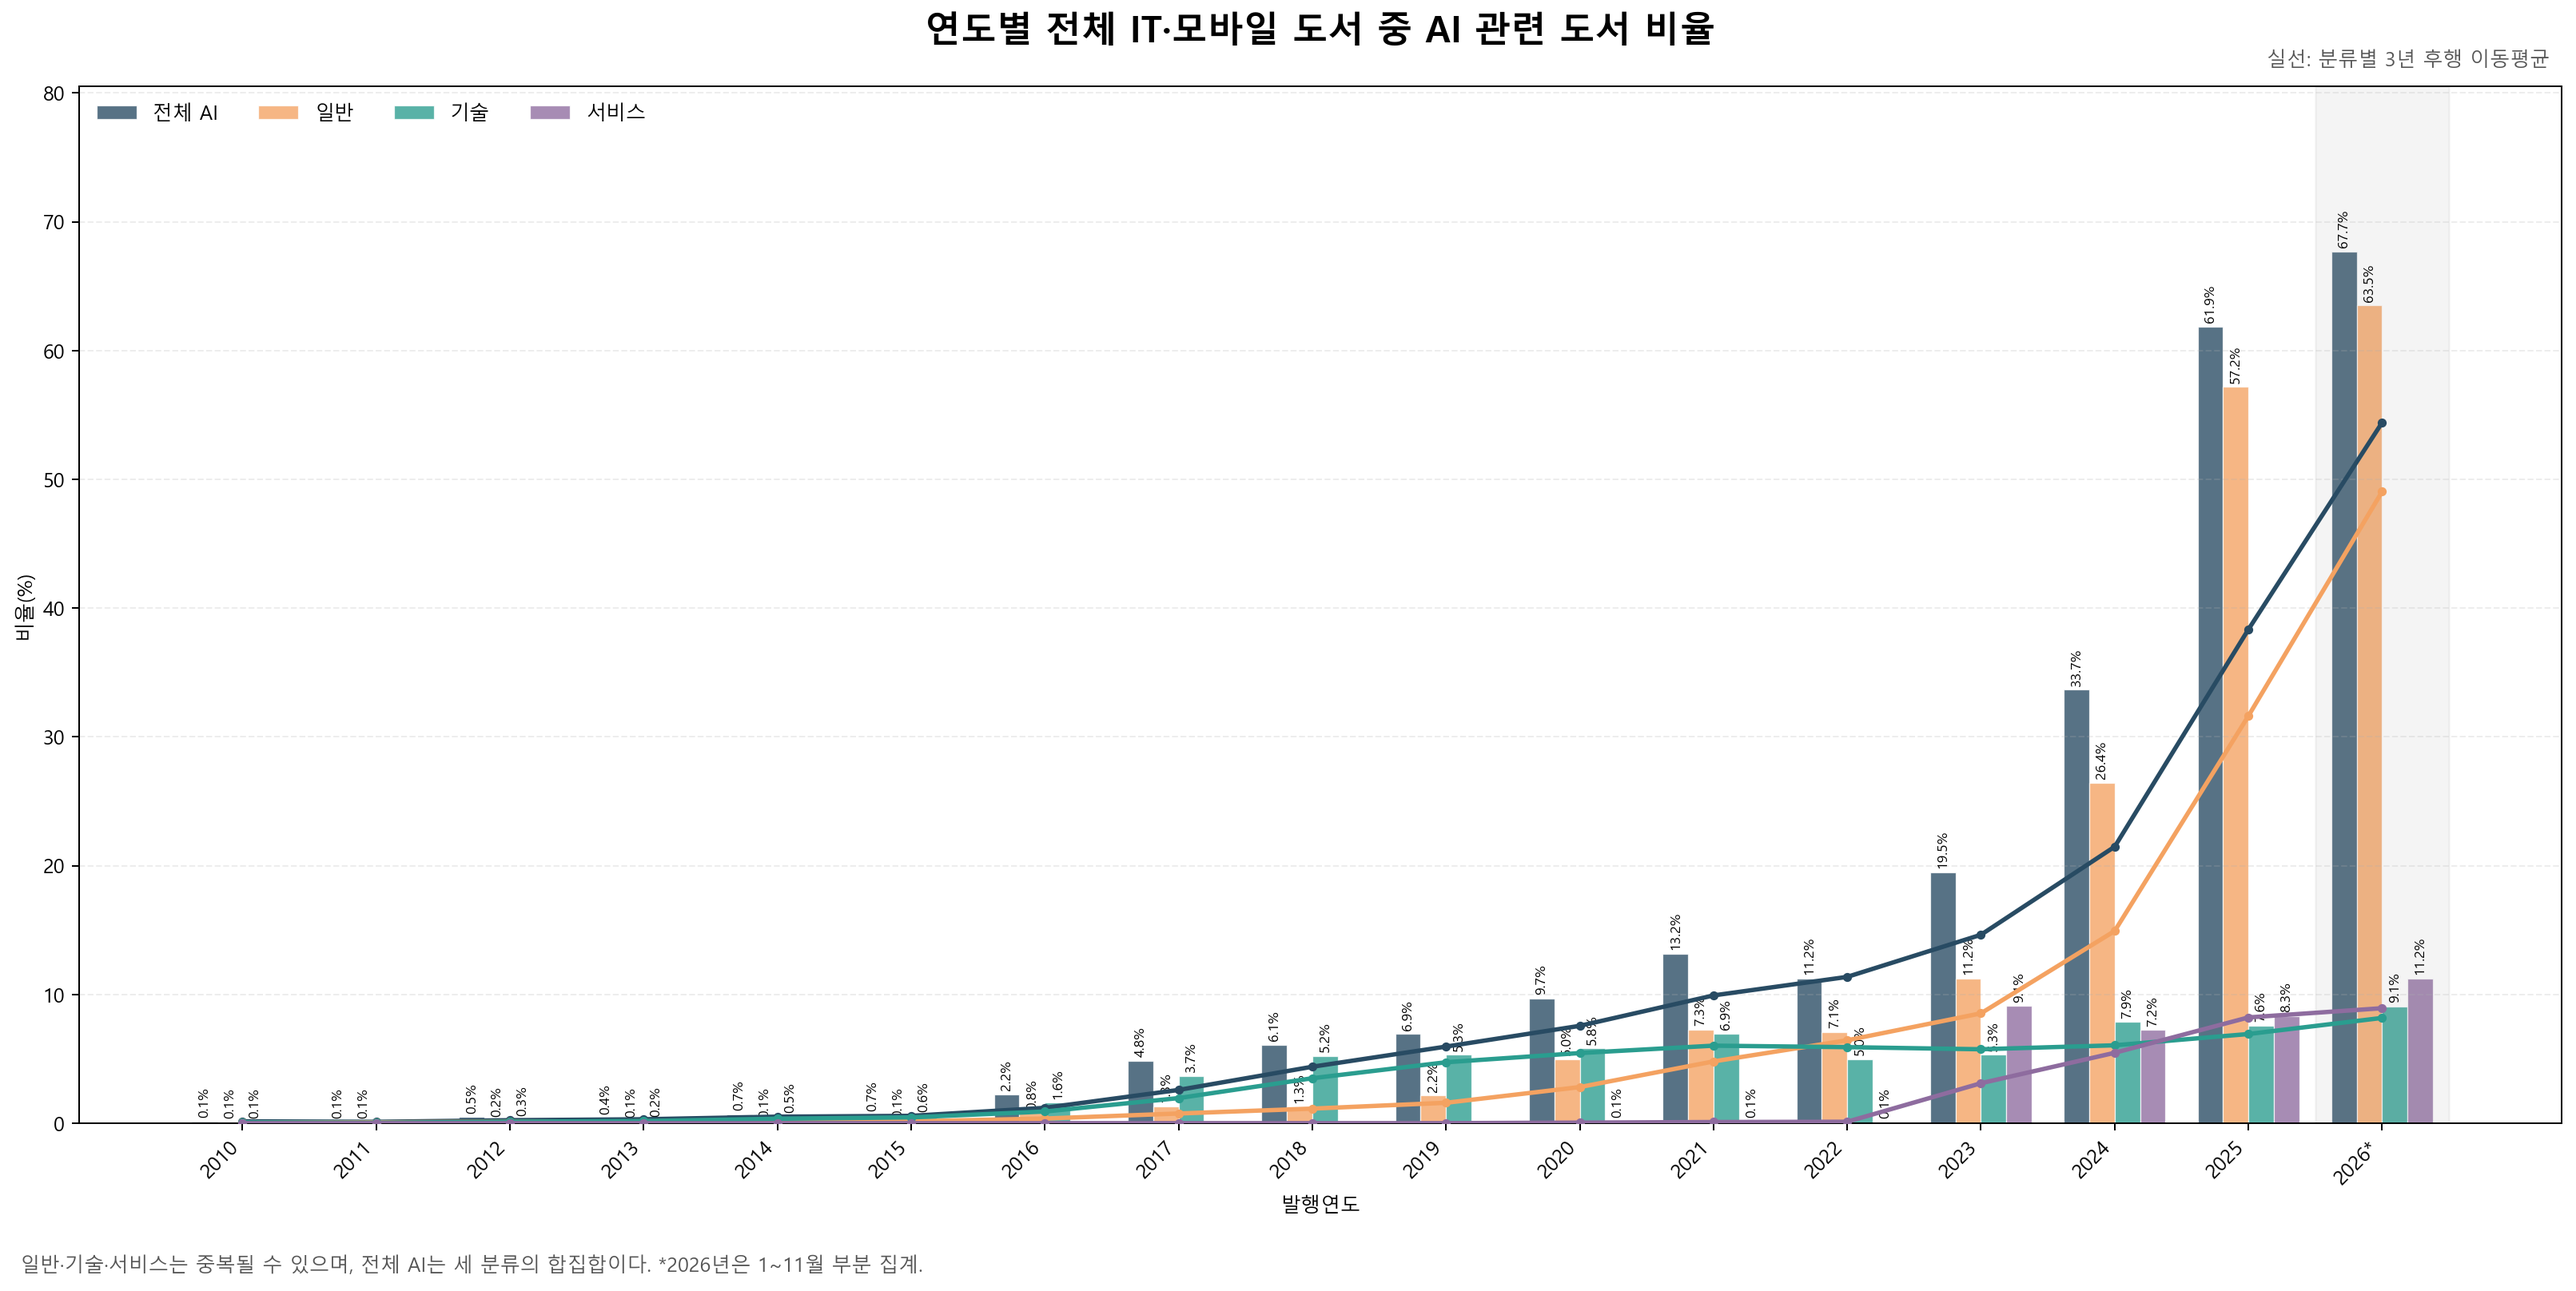
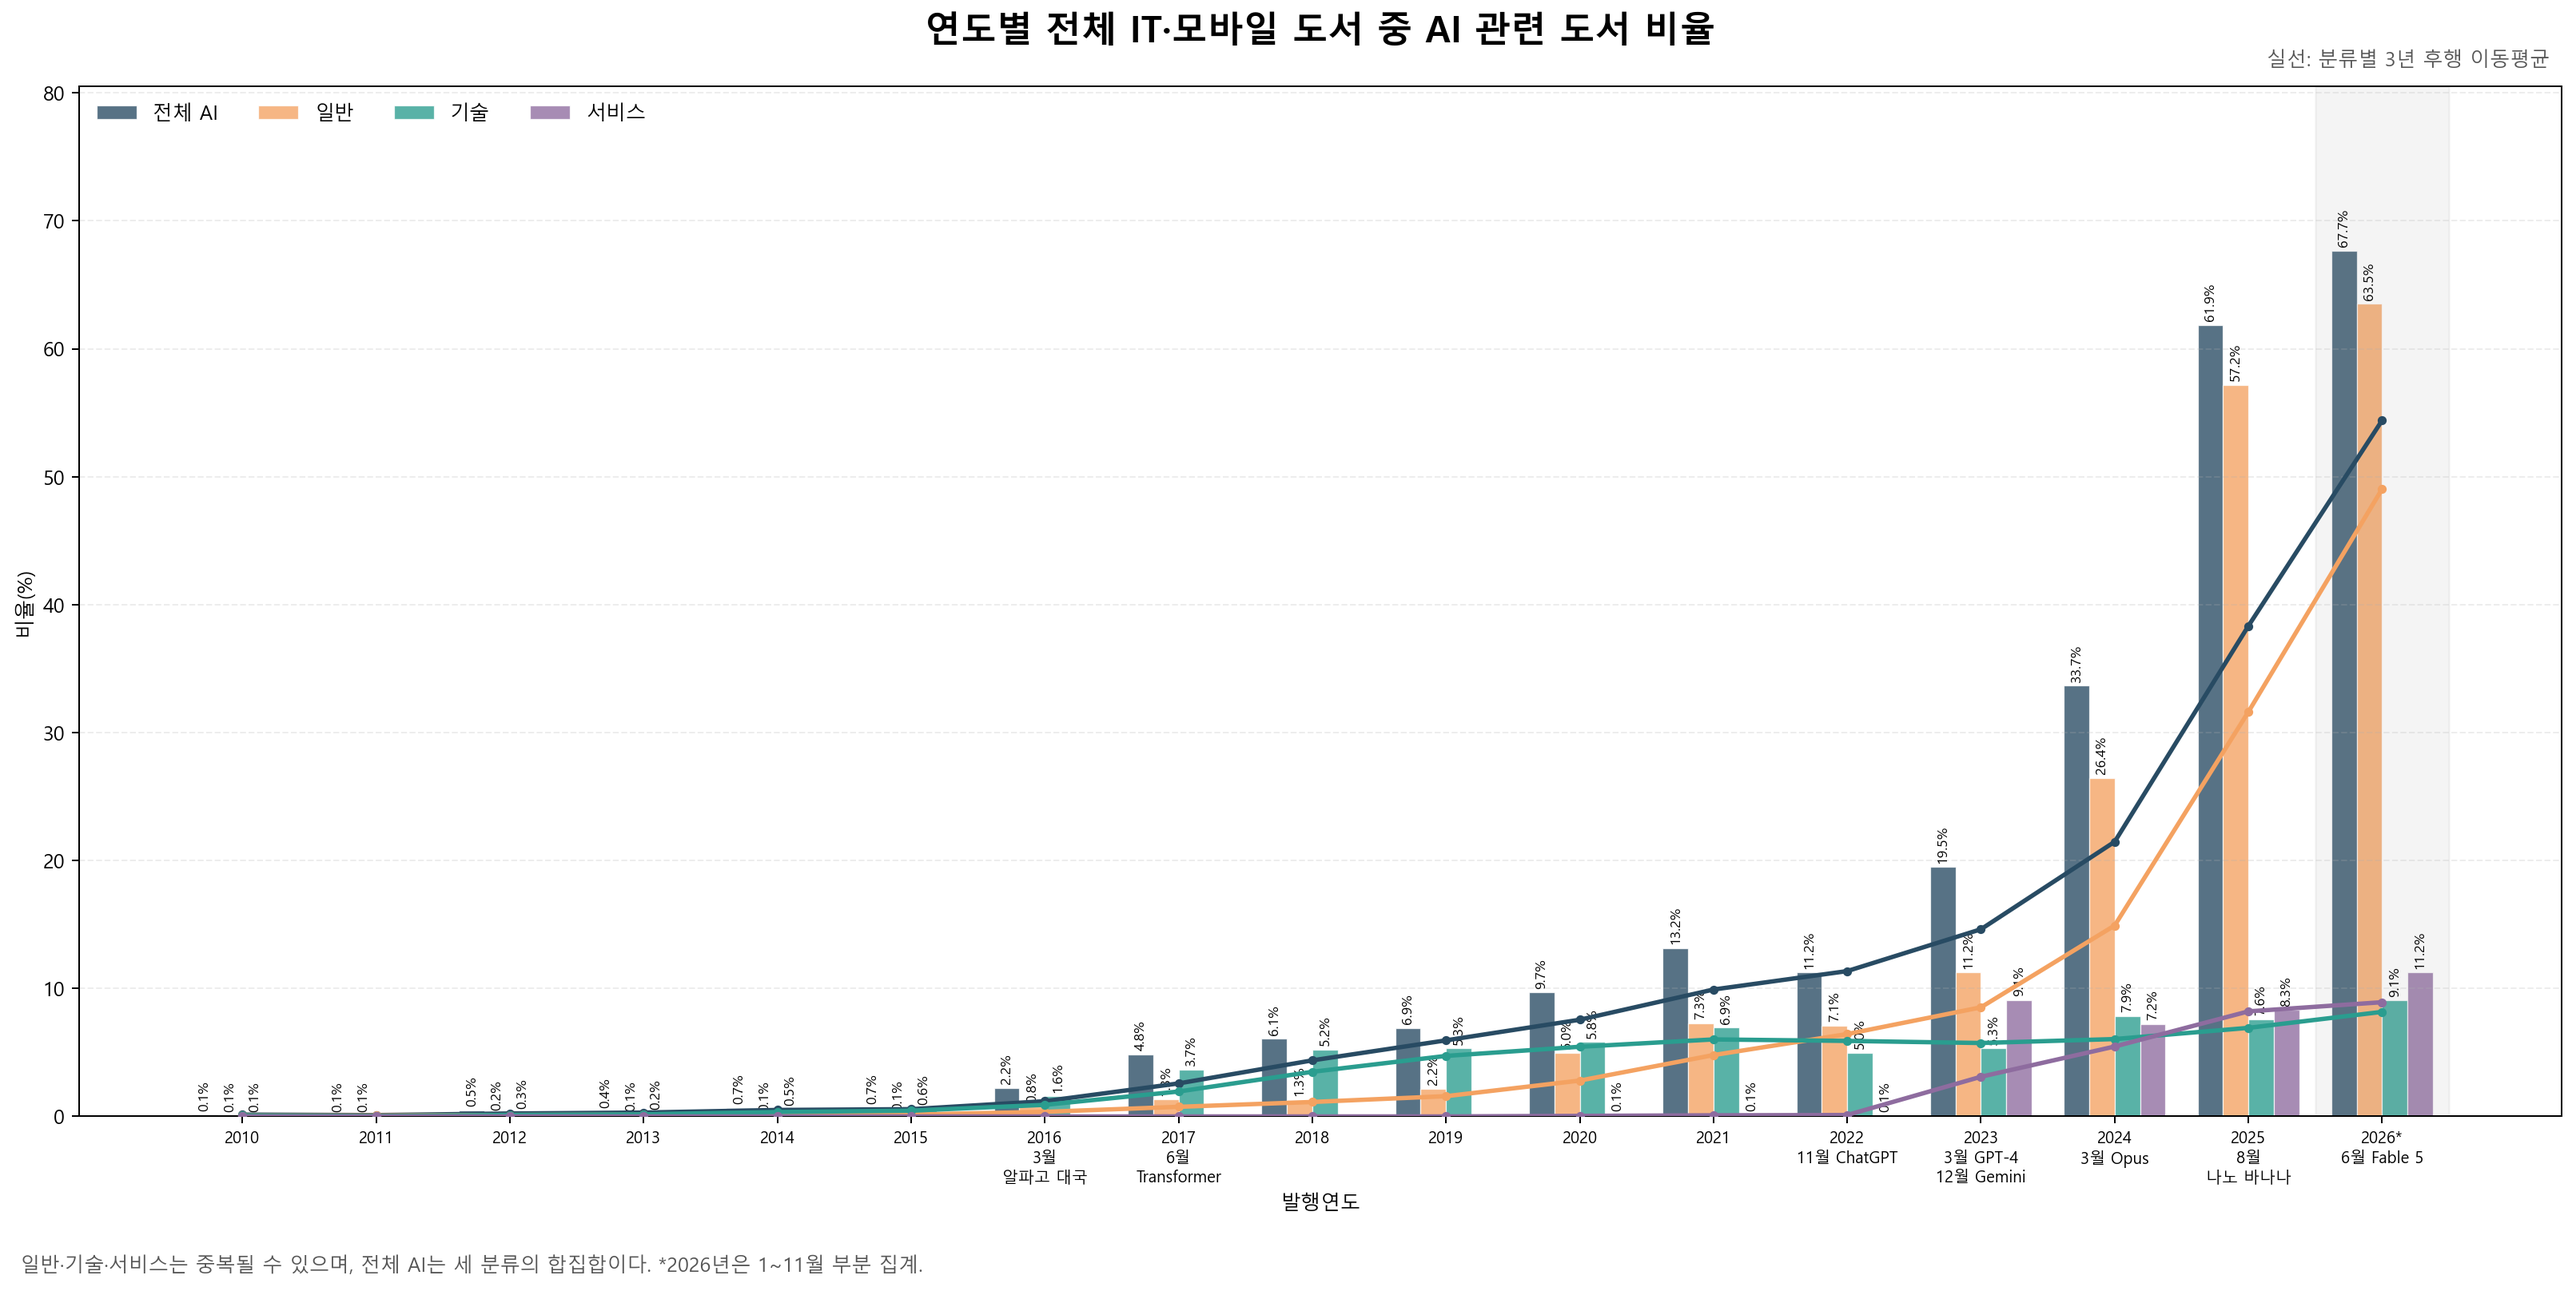
feat: 시계열 그림의 연도 아래 주요 AI 사건 표시

diff --git a/class3/ai_additional_analysis.py b/class3/ai_additional_analysis.py
@@ -11,7 +11,7 @@ matplotlib.use("Agg")
 import matplotlib.pyplot as plt
 
 from ai_trend_analysis import MONTH_PATTERN, KeywordClassifier, load_books, write_csv
-from ai_trend_charts import configure_korean_font
+from ai_trend_charts import configure_korean_font, year_tick_label
 
 BASE = Path(__file__).resolve().parent
 OUTPUT = BASE / "reports" / "analysis_results"
@@ -315,9 +315,8 @@ def draw_market_context(rows):
                 )
     axis.set_xticks(
         positions,
-        [f"{row['year']}{'*' if row['partial_year'] else ''}" for row in selected],
-        rotation=45,
-        ha="right",
+        [year_tick_label(row["year"], partial=row["partial_year"]) for row in selected],
+        fontsize=8,
     )
     axis.set_ylim(0, max(totals) * 1.19)
     axis.set_ylabel("도서 상품 수(개)")
@@ -426,14 +425,16 @@ def draw_composition(rows):
                 )
         bottom = [base + value for base, value in zip(bottom, values, strict=True)]
     labels = [
-        f"{row['year']}{'*' if row['year'] == 2026 else ''}\nn={row['ai_count']:,}"
+        year_tick_label(
+            row["year"], partial=row["year"] == 2026, sample_size=row["ai_count"]
+        )
         for row in selected
     ]
-    axis.set_xticks(positions, labels)
+    axis.set_xticks(positions, labels, fontsize=8)
     axis.set_ylim(0, 100)
     axis.set_ylabel("해당 연도 AI 도서 중 비율(%)")
     axis.set_title("AI 관련 도서 내부 구성의 변화")
-    axis.legend(loc="upper center", bbox_to_anchor=(0.5, -0.1), ncol=2, frameon=False)
+    axis.legend(loc="upper center", bbox_to_anchor=(0.5, -0.24), ncol=2, frameon=False)
     save_figure(
         figure,
         "ai_composition.png",
@@ -463,9 +464,14 @@ def draw_keywords(rows, group, start, end, top_n):
     axis.set_xticks(
         range(len(years)),
         [
-            f"{year}{'*' if year == 2026 else ''}\nn={lookup[labels[0], year]['group_count']}"
+            year_tick_label(
+                year,
+                partial=year == 2026,
+                sample_size=lookup[labels[0], year]["group_count"],
+            )
             for year in years
         ],
+        fontsize=8,
     )
     for y, label in enumerate(labels):
         for x, year in enumerate(years):
@@ -526,7 +532,8 @@ def draw_sensitivity(rows):
     axis.set_title("검색 범위와 상품 형태에 따른 AI 도서 비율 변화")
     axis.set_xticks(
         list(range(2020, 2027)),
-        [str(year) + ("*" if year == 2026 else "") for year in range(2020, 2027)],
+        [year_tick_label(year, partial=year == 2026) for year in range(2020, 2027)],
+        fontsize=8,
     )
     axis.set_ylabel("각 시나리오의 분석 대상 중 AI 도서 비율(%)")
     axis.set_ylim(0, 85)

diff --git a/class3/tests/test_ai_additional_analysis.py b/class3/tests/test_ai_additional_analysis.py
@@ -127,3 +127,50 @@ def test_market_context_rejects_a_stack_that_does_not_equal_the_total():
     ]
     with pytest.raises(ValueError, match="합계"):
         analysis.market_context_series(rows)
+
+
+@pytest.mark.parametrize(
+    "kind", ["composition", "market", "technical", "service", "sensitivity"]
+)
+def test_time_charts_keep_events_and_partial_year_on_ticks(kind, monkeypatch):
+    classifier = classifier_module.KeywordClassifier.from_json(
+        MODULE_DIR / "ai_keywords.json"
+    )
+    records = analysis.classify_books(
+        [
+            {
+                "title": "AI LLM ChatGPT",
+                "subtitle": "",
+                "publication_month": f"{year}-01",
+            }
+            for year in range(2020, 2027)
+        ],
+        classifier,
+    )
+    tables = analysis.compute_tables(records)
+    captured = []
+
+    def capture(figure, *args):
+        captured.extend(tick.get_text() for tick in figure.axes[0].get_xticklabels())
+        analysis.plt.close(figure)
+
+    monkeypatch.setattr(analysis, "save_figure", capture)
+    if kind == "composition":
+        analysis.draw_composition(tables["ai_composition"])
+    elif kind == "market":
+        analysis.draw_market_context(tables["ai_growth"])
+    elif kind == "sensitivity":
+        analysis.draw_sensitivity(tables["ai_sensitivity"])
+    else:
+        analysis.draw_keywords(tables["ai_keyword_yearly"], kind, 2023, 2026, 10)
+    year_2023 = next(label for label in captured if label.startswith("2023"))
+    year_2026 = next(label for label in captured if label.startswith("2026"))
+    assert year_2023.endswith("3월 GPT-4\n12월 Gemini")
+    assert year_2026.startswith("2026*")
+    assert year_2026.endswith("6월 Fable 5")
+    if kind in {"composition", "technical", "service"}:
+        assert year_2023.splitlines()[1] == "n=1"
+    if kind in {"technical", "service"}:
+        assert all(
+            "알파고" not in label and "Transformer" not in label for label in captured
+        )

diff --git a/class3/ai_trend_charts.py b/class3/ai_trend_charts.py
@@ -1,5 +1,6 @@
 import argparse
 import csv
+import unicodedata
 from pathlib import Path
 
 import matplotlib.pyplot as plt
@@ -25,6 +26,34 @@ PERCENT_SERIES = [
     {"field": "ai_technical_pct", "label": "기술"},
     {"field": "ai_service_pct", "label": "서비스"},
 ]
+
+# 공개·발표 시점이다. 짧은 축 표기의 전체 명칭과 출처는 보고서 3.1에 둔다.
+AI_EVENTS = (
+    (2016, 3, "알파고 대국"),
+    (2017, 6, "Transformer"),
+    (2022, 11, "ChatGPT"),
+    (2023, 3, "GPT-4"),
+    (2023, 12, "Gemini"),
+    (2024, 3, "Opus"),
+    (2025, 8, "나노 바나나"),
+    (2026, 6, "Fable 5"),
+)
+
+
+def year_tick_label(year, *, partial=False, sample_size=None):
+    """연도·기존 표본 수 아래에 해당 연도의 사건을 월순으로 표시한다."""
+    lines = [f"{year}{'*' if partial else ''}"]
+    if sample_size is not None:
+        lines.append(f"n={sample_size:,}")
+    for event_year, month, label in AI_EVENTS:
+        if event_year != year:
+            continue
+        event = f"{month}월 {label}"
+        columns = sum(
+            2 if unicodedata.east_asian_width(char) in "WF" else 1 for char in event
+        )
+        lines.append(event if columns <= 14 else f"{month}월\n{label}")
+    return "\n".join(lines)
 
 
 def configure_korean_font():
@@ -131,10 +160,9 @@ def render_grouped_chart(rows, series, output, title, y_label, percentage=False)
         axis.axvspan(position - 0.5, position + 0.5, color="#777777", alpha=0.08)
 
     tick_labels = [
-        f"{row['year']}*" if row["is_partial_year"] else str(row["year"])
-        for row in rows
+        year_tick_label(row["year"], partial=row["is_partial_year"]) for row in rows
     ]
-    axis.set_xticks(positions, tick_labels, rotation=45, ha="right")
+    axis.set_xticks(positions, tick_labels, fontsize=8)
     axis.set_title(title, fontsize=18, fontweight="bold", pad=22)
     axis.set_xlabel("발행연도")
     axis.set_ylabel(y_label)

diff --git a/class3/tests/test_ai_trend_charts.py b/class3/tests/test_ai_trend_charts.py
@@ -32,3 +32,43 @@ def test_chart_series_has_union_and_three_groups():
         "ai_technical_pct",
         "ai_service_pct",
     ]
+
+
+def test_year_label_keeps_both_events_of_the_same_year_in_order():
+    label = charts.year_tick_label(2023, sample_size=149)
+    assert label.splitlines() == ["2023", "n=149", "3월 GPT-4", "12월 Gemini"]
+    assert "ChatGPT" not in label
+
+
+def test_year_label_preserves_partial_year_and_sample_size():
+    label = charts.year_tick_label(2026, partial=True, sample_size=0)
+    assert label.splitlines() == ["2026*", "n=0", "6월 Fable 5"]
+    assert charts.year_tick_label(2021) == "2021"
+
+
+def test_grouped_chart_displays_events_below_the_year(monkeypatch):
+    captured = []
+
+    def capture(figure, *args, **kwargs):
+        captured.extend(tick.get_text() for tick in figure.axes[0].get_xticklabels())
+
+    monkeypatch.setattr(charts.plt.Figure, "savefig", capture)
+    rows = [
+        {
+            "year": year,
+            "is_partial_year": year == 2026,
+            **{item["field"]: 10 for item in charts.COUNT_SERIES},
+        }
+        for year in (2023, 2026)
+    ]
+    charts.render_grouped_chart(
+        rows,
+        charts.COUNT_SERIES,
+        MODULE.parent / "reports" / "figures" / "unused.png",
+        "테스트",
+        "권수",
+    )
+    assert captured == [
+        "2023\n3월 GPT-4\n12월 Gemini",
+        "2026*\n6월 Fable 5",
+    ]

diff --git a/class3/reports/report_draft.md b/class3/reports/report_draft.md
@@ -87,6 +87,21 @@
 
 분석 대상과 그림별 기간은 2.4절에 정리했다. 3.2·3.3의 막대는 해당 연도의 관측값이고 실선은 분류별 3년 후행 이동평균이다.
 
+**주요 사건 표시:** 모든 시계열 그림의 연도 아래에 다음 사건을 같은 기준으로 표시했다. 표본 수가 있는 그림은 `연도 → n → 사건` 순서이며, 표시 기간 밖의 사건은 넣지 않았다. 같은 해의 사건은 월순으로 나열하고 긴 표기는 월과 이름을 두 줄로 나눈다. 사건은 시점을 비교하기 위한 참고이며 도서 증감의 원인으로 판정한 것은 아니다.
+
+| 시점 | 사건·공식 출처 | 그림의 짧은 표기 |
+|---|---|---|
+| 2016.03 | [알파고–이세돌 대국](https://deepmind.google/research/alphago/) | 3월 알파고 대국 |
+| 2017.06 | [Transformer 논문 공개](https://arxiv.org/abs/1706.03762) | 6월 Transformer |
+| 2022.11 | [ChatGPT 공개](https://openai.com/index/chatgpt/) | 11월 ChatGPT |
+| 2023.03 | [GPT-4 발표](https://openai.com/index/gpt-4-research/) | 3월 GPT-4 |
+| 2023.12 | [Gemini 모델 발표](https://blog.google/innovation-and-ai/technology/ai/google-gemini-ai/) | 12월 Gemini |
+| 2024.03 | [Claude 3 Opus 공개](https://www.anthropic.com/research/claude-3-family) | 3월 Opus |
+| 2025.08 | [Nano Banana 공개](https://blog.google/products-and-platforms/products/gemini/updated-image-editing-model/) | 8월 나노 바나나 |
+| 2026.06 | [Claude Fable 5 공개](https://www.anthropic.com/news/claude-fable-5-mythos-5) | 6월 Fable 5 |
+
+Gemini는 2024년 서비스 개칭이 아니라 2023년 모델 발표를, Opus는 첫 등장인 Claude 3 Opus를 기준으로 삼았다. 시간축이 없는 부록 A의 중복 그림에는 사건을 붙이지 않고 위 목록을 공통 참고로 둔다.
+
 ### 3.2 연도별 AI 관련 도서 수
 
 ![연도별 AI 관련 도서 수](figures/ai_books_yearly_count.png)

diff --git a/class3/TASK_CHART_EVENT_LABELS.md b/class3/TASK_CHART_EVENT_LABELS.md
@@ -1,0 +1,15 @@
+# Task: 연도 아래 주요 AI 사건 표시
+
+- Goal: 보고서의 모든 시계열 그림에 연도 아래 주요 사건을 표시한다.
+- Reason: 도서 추이와 주요 AI 사건의 시점을 같은 화면에서 비교하기 위해서다.
+- Scope: 공통 사건·연도 라벨 함수, 본문 시계열 그림 6개와 보조 민감도 그림, 보고서의 사건 목록·출처와 검토 메모. 원자료·키워드 분류·집계·분석 기간은 변경하지 않는다.
+- Acceptance Criteria: 합의한 8개 사건에 같은 연월·명칭을 사용한다. 해당 그림의 기간에 있는 사건만 연도와 기존 표본 수 아래에 표시한다. 같은 해 사건을 모두 보존하고 부분 연도 별표를 유지한다. 부록의 비시계열 중복 그림에는 시간 표시를 추가하지 않는다.
+- Tests: 동일 연도 다중 사건·표본 수·부분 연도·사건 없는 연도와 실제 그림의 축 연결을 검증한다. 관련 분석 테스트·Ruff·한글 및 라벨 배치 육안 확인·diff 검사를 수행한다.
+- Dependencies: 기존 그림 생성 코드와 공식 출처로 확인한 사건 목록. Opus는 Claude 3 Opus 첫 공개, Gemini는 모델 발표 기준이다.
+
+## 검증 기록
+
+- RED: 같은 해 다중 사건·부분 연도 라벨 테스트가 미구현 함수로 실패했다.
+- GREEN: 실제 축 연결 검증을 포함한 관련 분석 테스트 32개 통과. Ruff check/format 및 diff 공백 검사 통과.
+- 본문 6개와 보조 1개 PNG를 다시 생성했다. 한글·연도/표본 수/사건 순서와 범례·각주 배치를 육안 확인하고, 7개 그림의 인접 연도 라벨 경계가 겹치지 않음을 렌더러로 확인했다.
+- 보고서의 사건 8개 연월과 공통 라벨, 문서 로컬 링크를 대조했다. 원자료·집계 CSV와 부록의 비시계열 그림은 변경하지 않았다.

diff --git a/class3/reports/analysis_review_notes.md b/class3/reports/analysis_review_notes.md
@@ -7,6 +7,7 @@
 - 절 정리 기록: 증가율 분석은 본문에서 삭제했고, 기존 3.5의 분류 중복 분석은 부록 A로 옮겼다. 본문과 참조 번호를 이에 맞췄다.
 - 비교 방법: 아래 절 번호는 보고서와 같다. 각 절의 그림 링크를 열어 원문과 검토 내용을 비교할 수 있다. ‘현재 판단’은 검토 의견이며 분석의 삭제·재계산을 실행했다는 의미가 아니다.
 - 전체 규모 분석 수정 기록: 사용자 요청에 따라 전체 IT 상품 규모와 AI 부분의 누적 막대 분석으로 교체했다. 이전 민감도 문답은 아래 ‘보조 검토’에 보존한다.
+- 사건 표시 기록: 본문 시계열 그림 6개와 보조 민감도 그림의 연도 아래에 공통 사건을 표시했다. 기존 표본 수와 부분 연도 별표는 유지하고, 같은 해 사건은 월순으로 나열한다. 전체 명칭·날짜 기준·공식 출처는 보고서 3.1에 있다. 시간축이 없는 부록 A의 중복 그림은 이 공통 목록을 참고한다. 사건과 도서 변화의 시간적 관계를 읽는 보조 정보이며 인과관계나 출판 반영 시차의 추정 결과는 아니다.
 
 ## 기간 선정과 데이터 필터링에 관한 추가 문답
 
